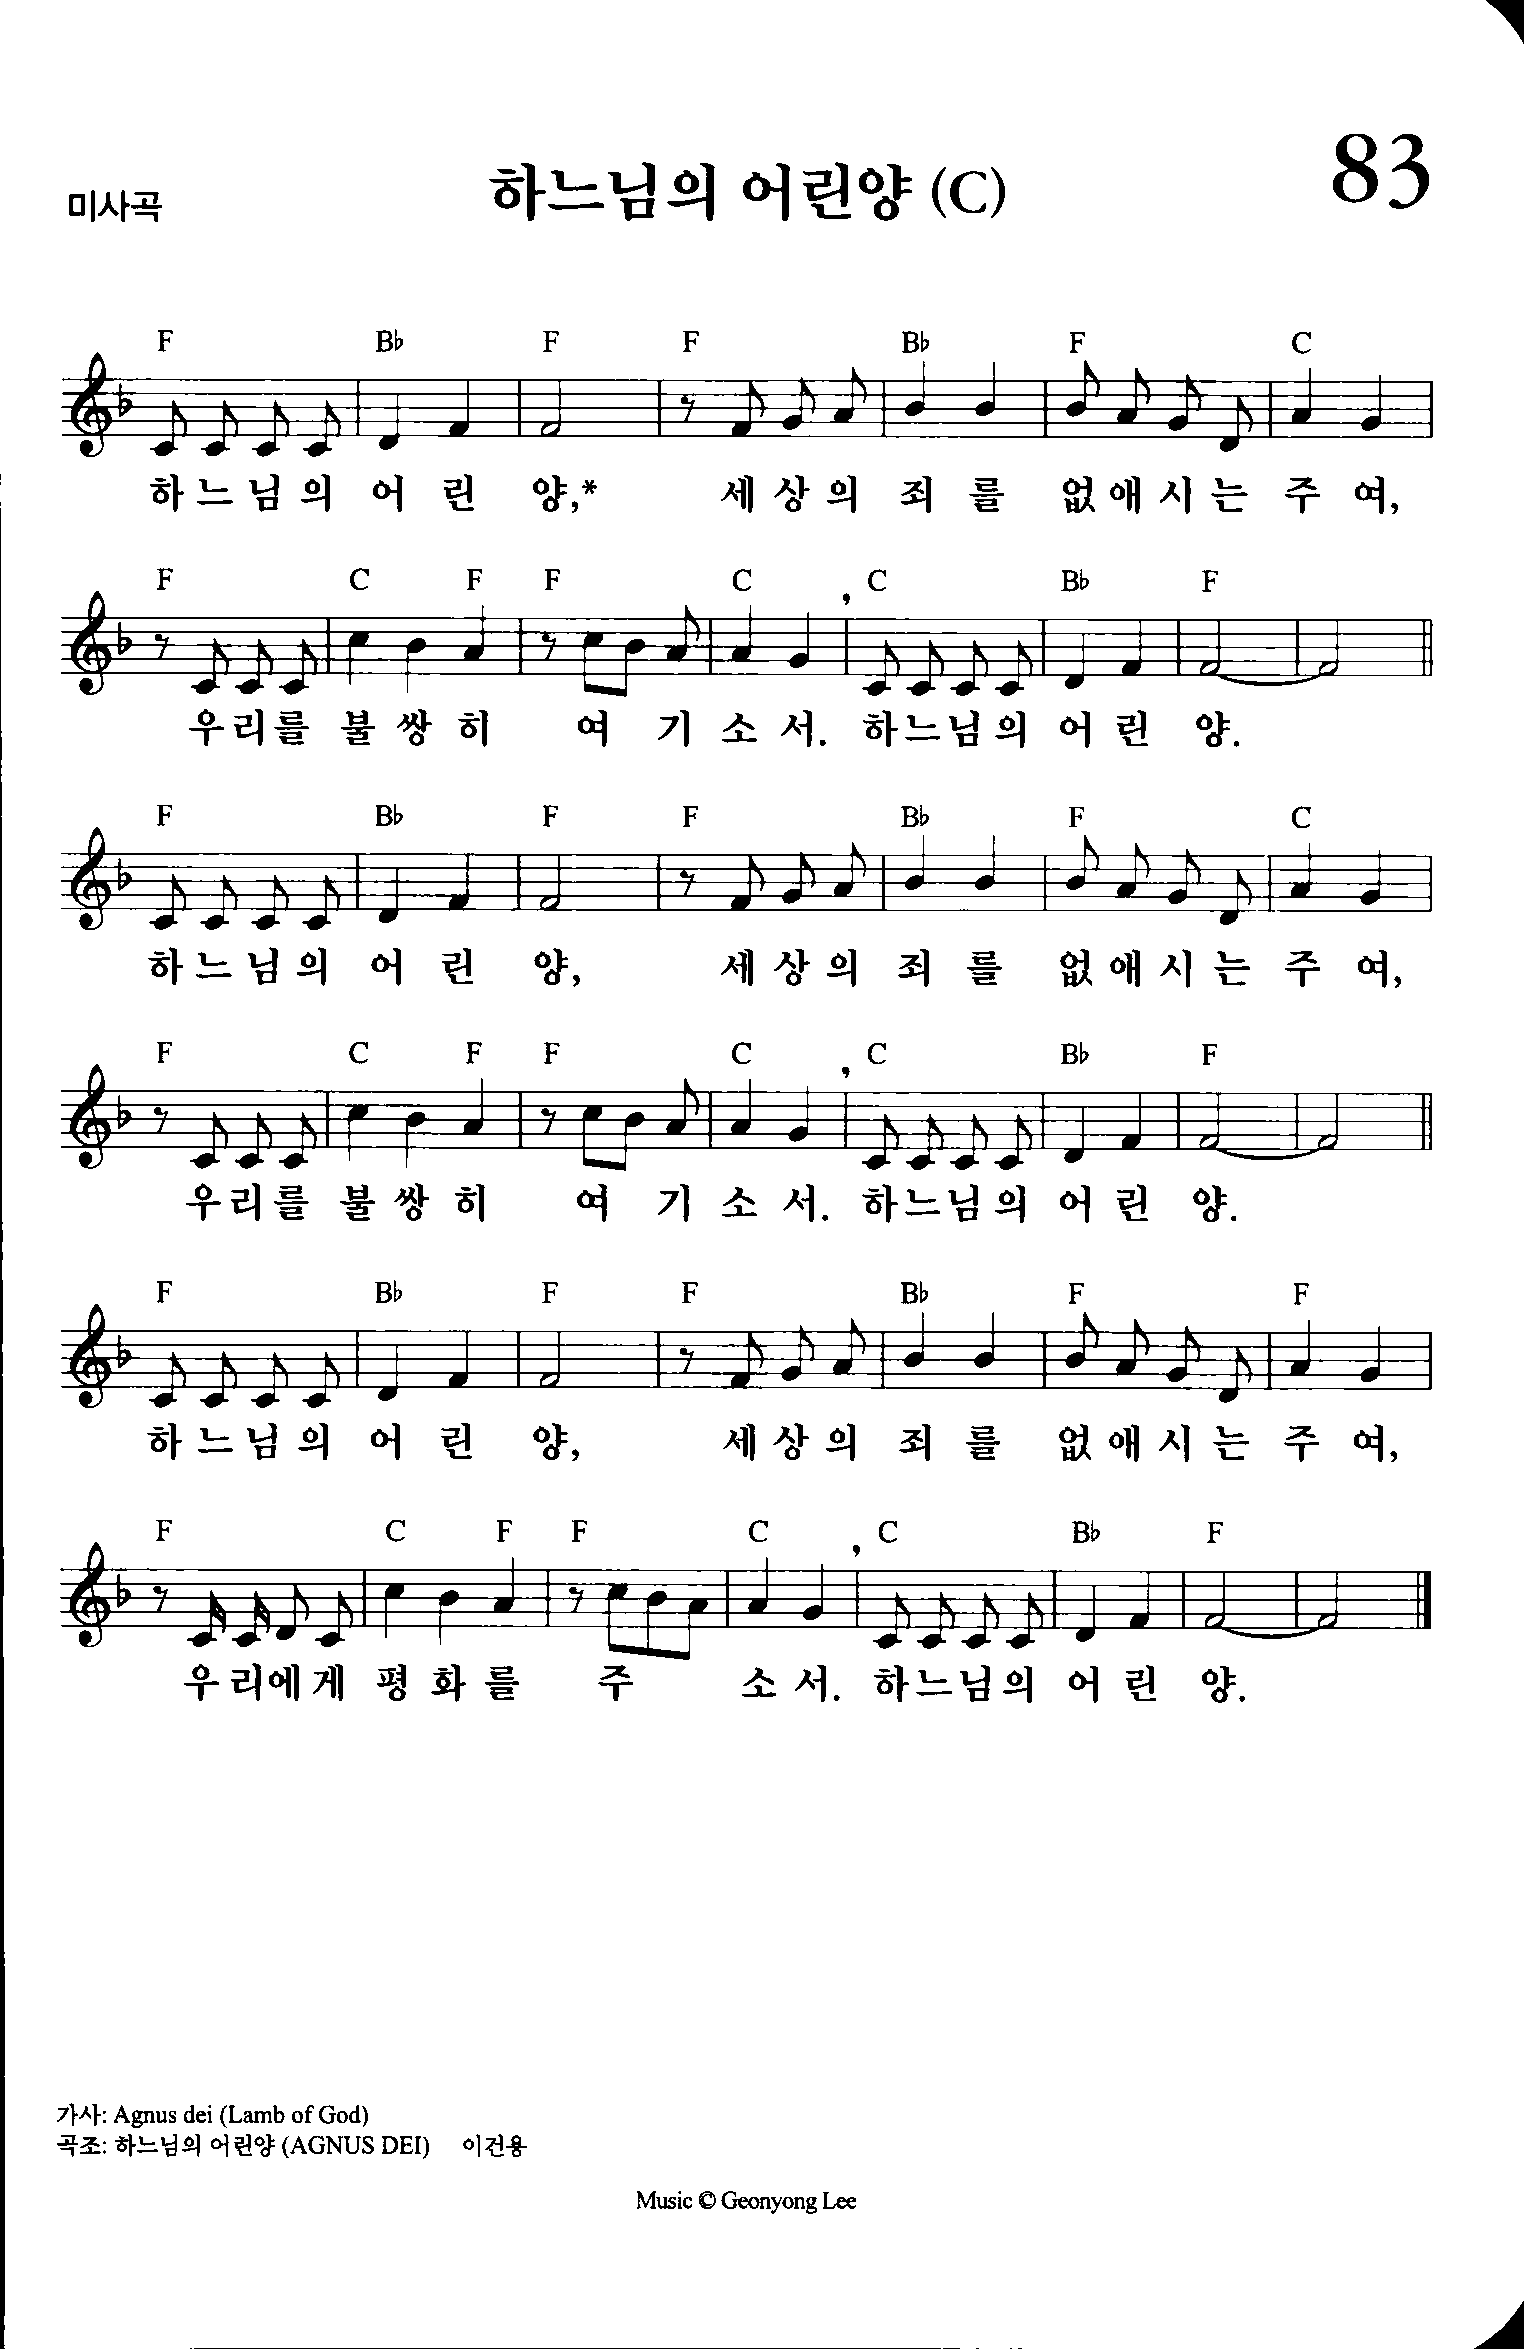
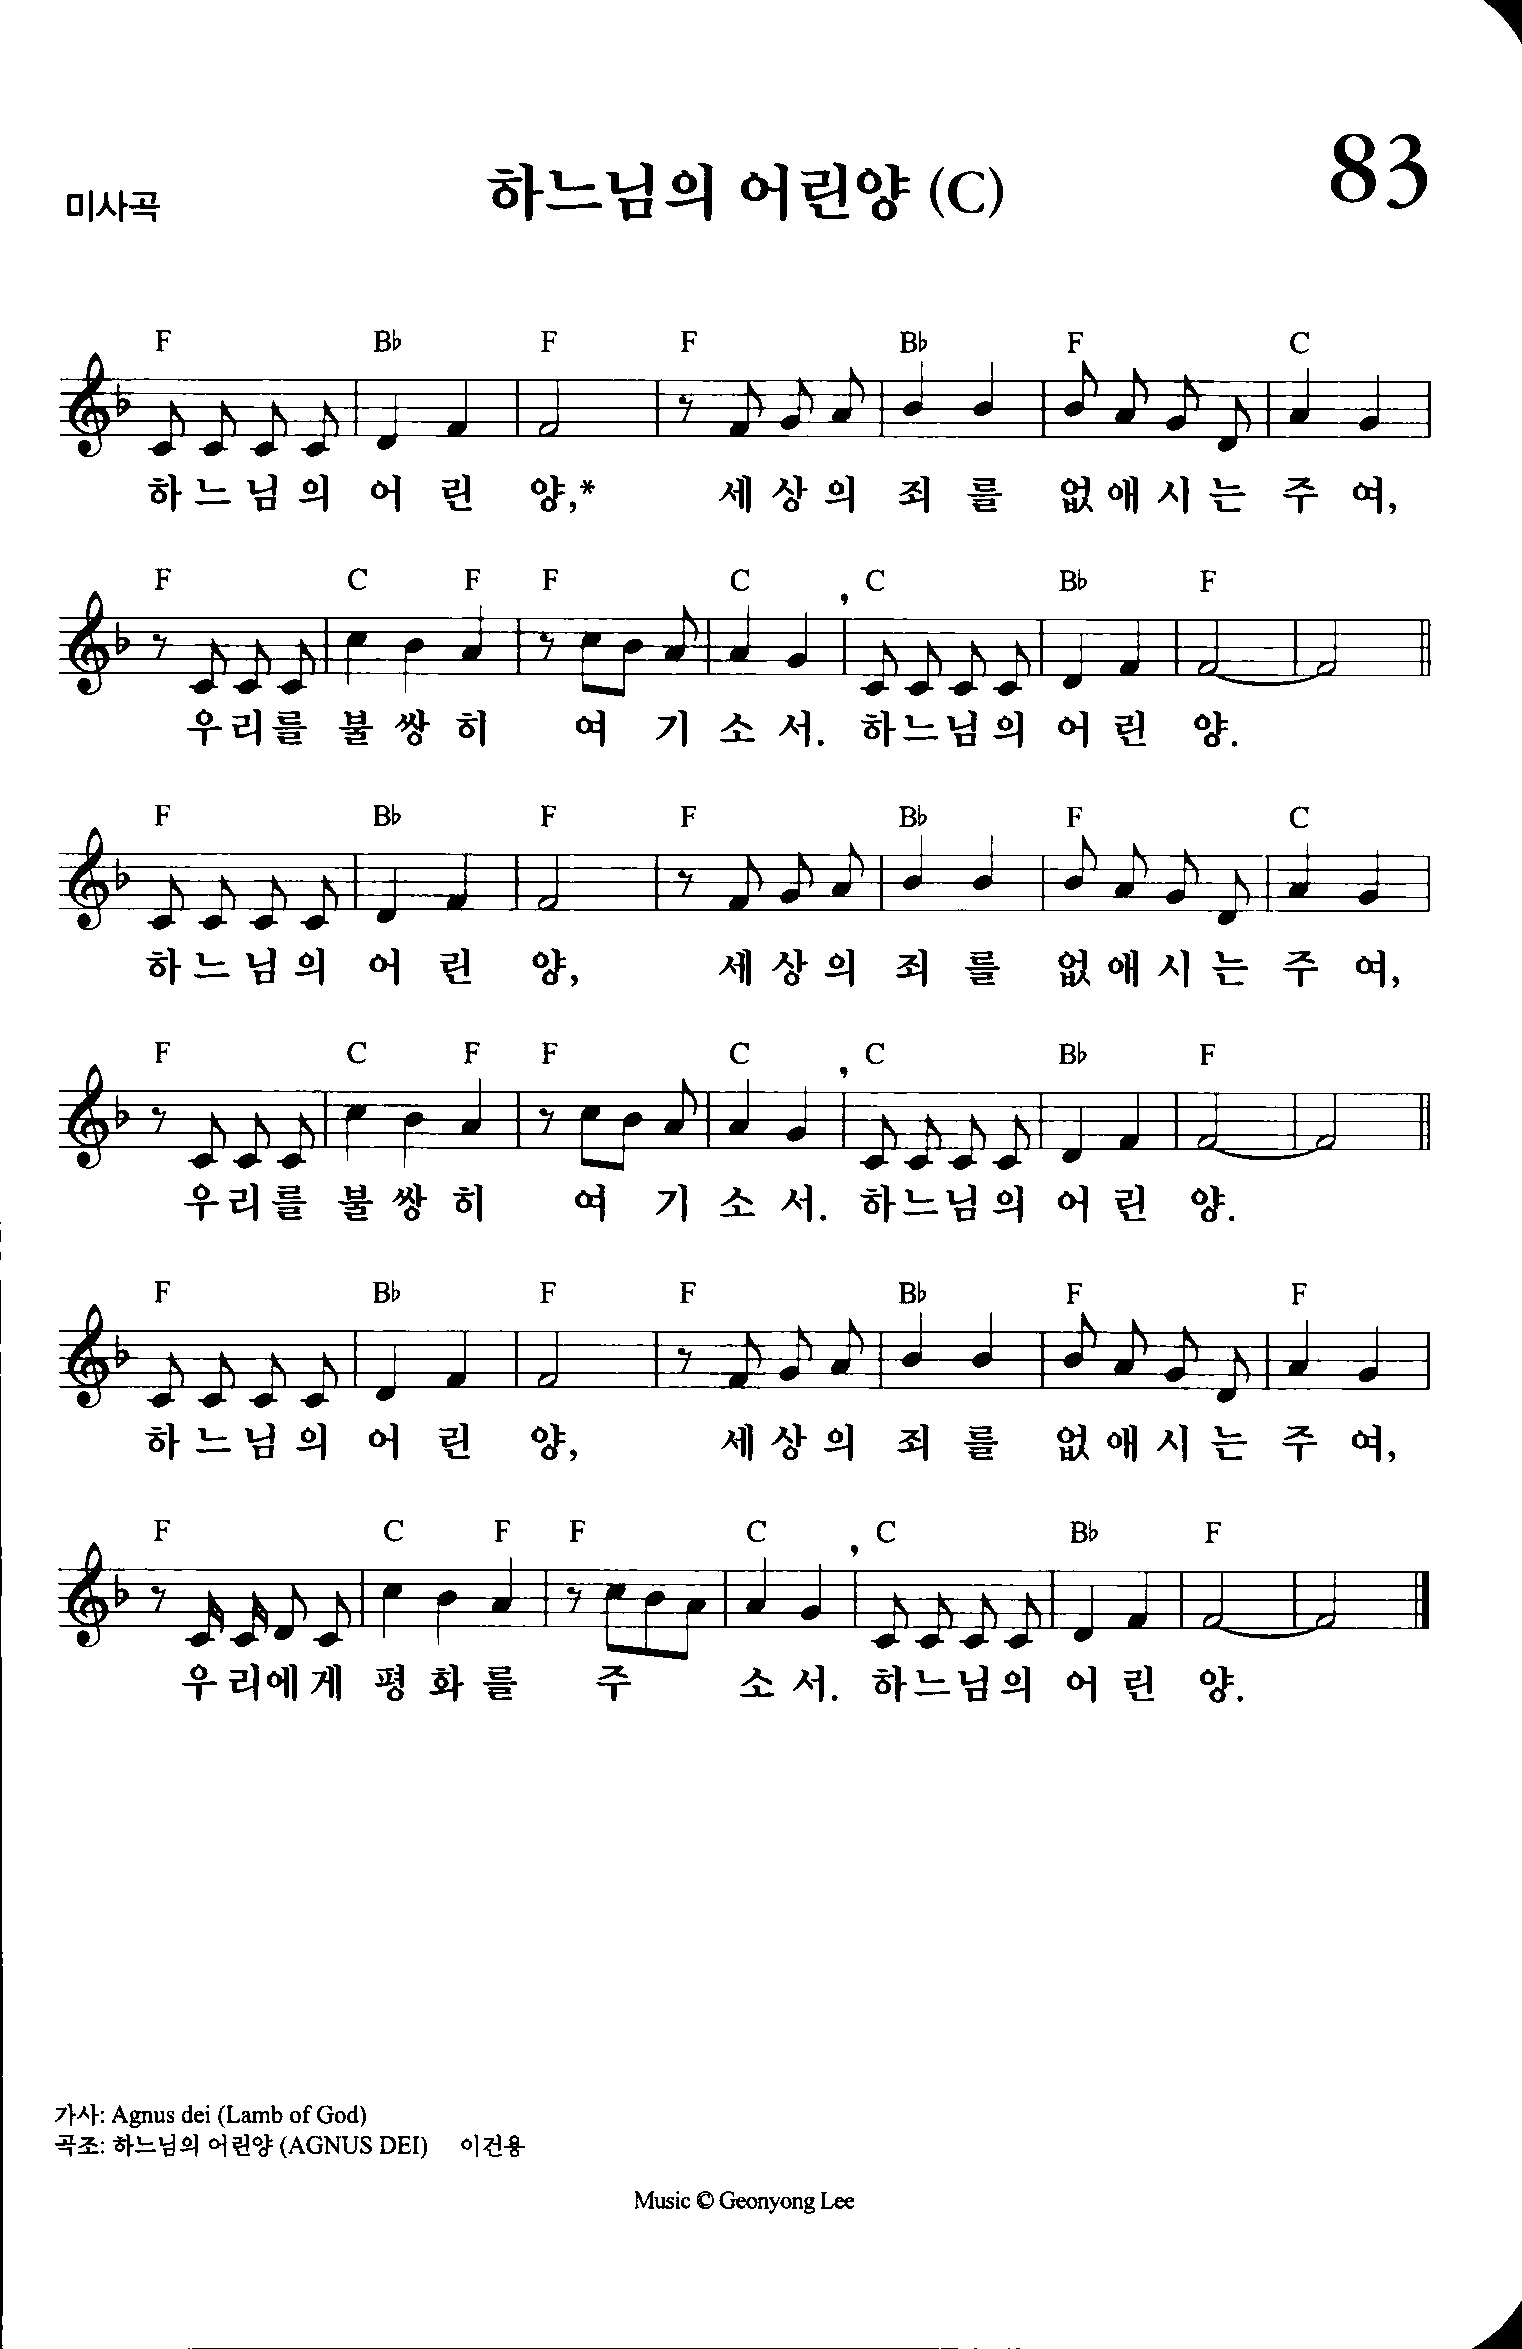
chore: 개발 main 공식 반영 — 성가 악보 검은 테두리 제거 (#63)
* chore: cache-bust asset refs →

* fix: 교회력 페이지 PC 정렬을 가운데 축으로 통일 (#578)

상단 히어로·색 리본·섹션 탭 가운데 축에 맞춰 PC(769px~) 본문 헤더·달력·전례독서·현재 절기 카드를 중앙 정렬. 모바일은 변경 없음.

Claude-Session: https://claude.ai/code/session_019RKw6GuBSKHSDY4tNNCHKq

* chore: cache-bust asset refs →

* fix: 교회력 페이지 PC 제목을 좌측 정렬로 되돌리고 위젯 칼럼만 가운데 배치 (#579)

제목은 좌측 정렬 유지, 달력·전례독서는 560px 가운데 칼럼으로 배치. PC(769px~)만 적용, 모바일 변경 없음.

Claude-Session: https://claude.ai/code/session_019RKw6GuBSKHSDY4tNNCHKq

* chore: cache-bust asset refs →

* chore: 10월 25일 주보(연중 제30주일) 등록 (#580)

- 주보 이미지 4장과 PDF 추가
- 10/25 시편을 주보 기준 90편으로 정정
- 교회소식 6건 등록

Claude-Session: https://claude.ai/code/session_01Qy8AWapYx195nzSYZUxHHj

* chore: cache-bust asset refs →

* docs: add 공동번역 성서 개정판 PDF (v2.3 r101) (#581)

Claude-Session: https://claude.ai/code/session_01HSoUAhU2gsMfcKJSozHyPW

* feat: 주보 페이지에 이번 주 말씀(핵심구절) 표시 (#582)

- data/bulletin-verses.json에 주별 핵심구절 기록, sync가 data.js 주보 항목의 verse로 합침(보관 규칙·미기록 경고 포함)
- 주보 첫 쪽 맨 위 '이번 주 말씀' 카드, 나머지 주보는 펼침 영역 앞에 표시
- 10월 25일 주일: 마태 22:37-40 (공동번역 본문 대조)
- 자동 정리 워크플로·주보 등록 절차 문서 갱신

Claude-Session: https://claude.ai/code/session_017ruzkfiGDfFEcqgxw5nwcK

* chore: cache-bust asset refs →

* feat: 어린이 예배 페이지에 사제님께 드린 카드 사진 추가 (#583)

Claude-Session: https://claude.ai/code/session_012wBSeoEEue2PBJY83FN3Ek

* chore: cache-bust asset refs →

* fix: 카드 사진의 이름 흐림 처리 제거 (#584)

Claude-Session: https://claude.ai/code/session_012wBSeoEEue2PBJY83FN3Ek

* feat: 주보에서 예배 슬라이드 생성 (초도, 성가·기도서는 더미) (#585)
[…]

diff --git a/AGENTS.md b/AGENTS.md
@@ -54,5 +54,6 @@
 - 주보제작에서 `book.json`을 만든 뒤 `node scripts/hymnal-web-exclude.js`를 실행한다(순서지가 쓰는 성가 악보만 웹에 공개, 나머지 스캔은 비공개 — `docs/REPO-STRUCTURE.md` 끝).
 - 순서지는 휴대폰 앱 화면 전용이다. 인쇄는 고려하지 않는다(2026-11-22 사용자 확정).
 - 교회소식 표기: 여러 줄 내용은 `- ` 점 목록으로(소그룹 명단은 `- 소그룹N 인도자 : 이름 (층) / 명단`). 줄 표기만 바꾸고 인쇄된 글은 고치지 않는다. 굵은 글씨·제목 등 새 표기는 디자인 승인 뒤에만(2026-11-22).
+- **성가 악보 검은 테두리(2026-11-22 사용자 지시)** — 순서지에 쓰는 악보 이미지는 가장자리의 검은 스캔 띠를 잘라서 쓴다(밝기 평균 100 미만인 가장자리 줄 제거, 악보 내용은 그대로). 새 악보도 같은 처리를 한다.
 - **기도서·성가·성서 출처(2026-11-22 사용자 확정)** — 기도서 본문은 `data/worship-texts/bcp.json`에 쪽마다 기록된 출처(교회 예배 슬라이드 또는 온라인 기도서 `dulkuka12.github.io/kbcp/ucharist-form1.html`)만 쓴다. 따로 받은 예식문 PDF가 있는 주는 그 글을 따른다. 쪽 번호는 항상 주보 인쇄 값을 따른다(성체나눔 포함, 2026-11-22 사용자 지시). 어디에도 없는 본문은 추측으로 채우지 않고 비워 두고 보고한다. 온라인 기도서는 교회 공식 자료가 아니므로 주소가 바뀌면 직접 확인한다. 상세 `docs/bulletin-procedure.md` 6-1.
 - 완료 보고 링크: https://gmskh.or.kr/jubo/ , https://frpsy.github.io/gmchurch_web/jubo/ (날짜별 링크는 요청 시에만).
